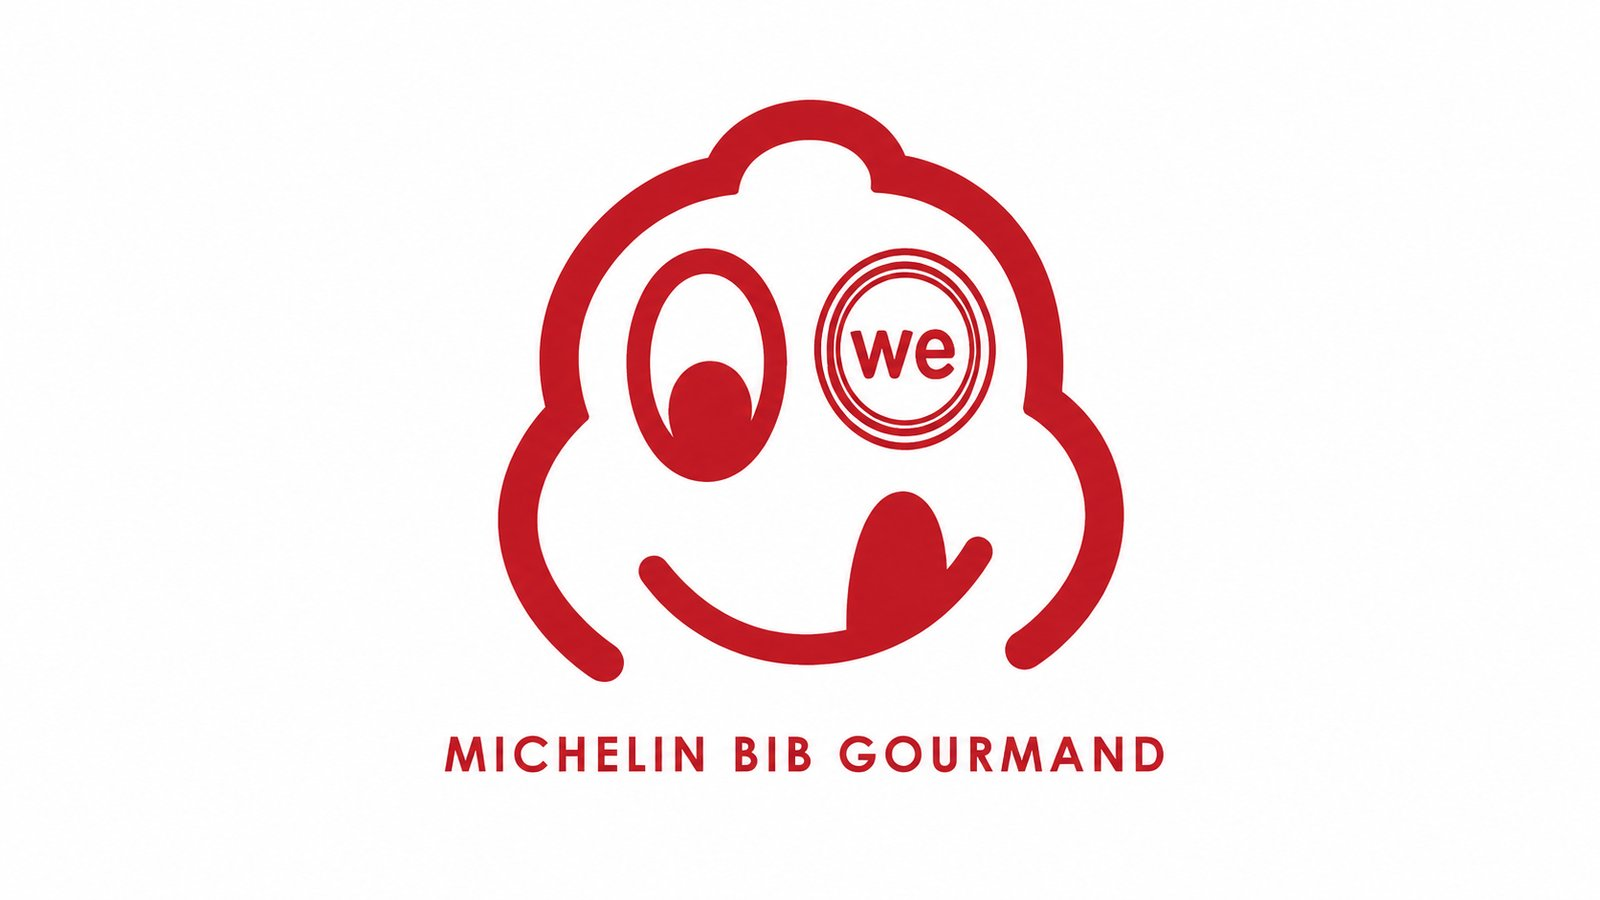
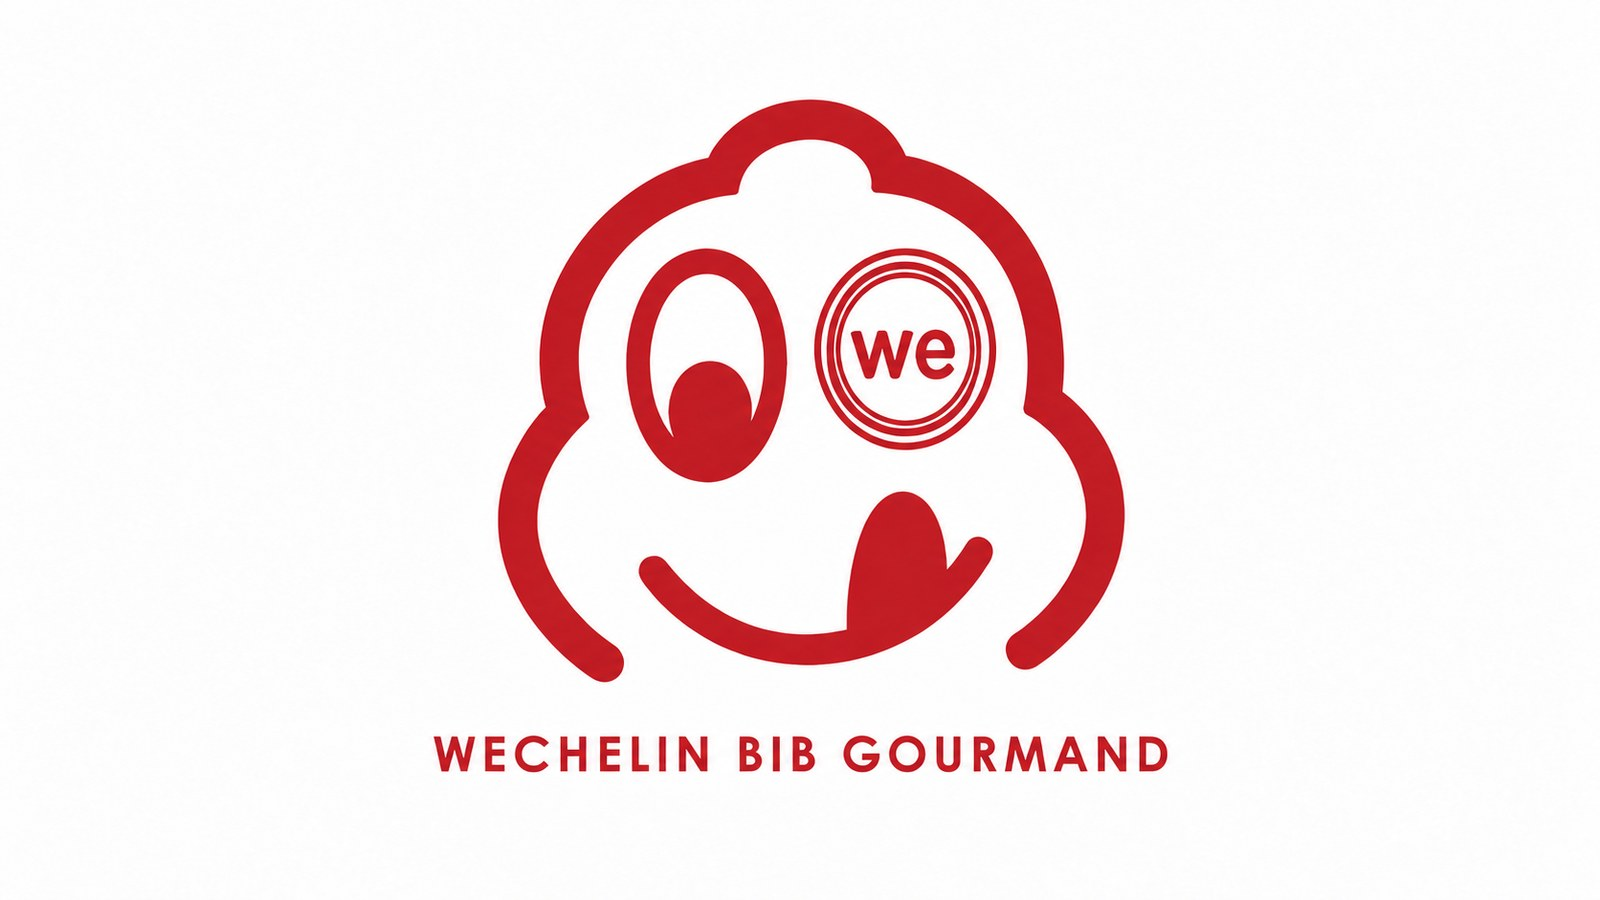
We슐랭: 배너 그림을 WECHELIN BIB GOURMAND 로 교체

diff --git a/src/app/we-slang/page.tsx b/src/app/we-slang/page.tsx
@@ -17,7 +17,7 @@ export default function WeSlangPage() {
           <div className="w-full max-w-[720px] mx-auto aspect-[16/3] mb-4 bg-[#b71f2f] rounded-2xl overflow-hidden">
             <img src="/weslang/wechelin-icon.png" alt="" aria-hidden className="block h-full w-auto mx-auto" />
           </div>
-          <img src="/weslang/wechelin-banner.jpg" alt="We슐랭 — 센터 근처 맛있는 가게" className="block w-full max-w-[720px] mx-auto rounded-2xl shadow-[0_2px_6px_rgba(0,0,0,0.06),0_10px_24px_rgba(0,0,0,0.05)]" />
+          <img src="/weslang/wechelin-banner.jpg" alt="WECHELIN BIB GOURMAND — 센터 근처 맛있는 가게" className="block w-full max-w-[720px] mx-auto rounded-2xl shadow-[0_2px_6px_rgba(0,0,0,0.06),0_10px_24px_rgba(0,0,0,0.05)]" />
         </div>
         <div className="px-4">
           <PostBoard category="weslang" basePath="/we-slang" variant="weslang" />
